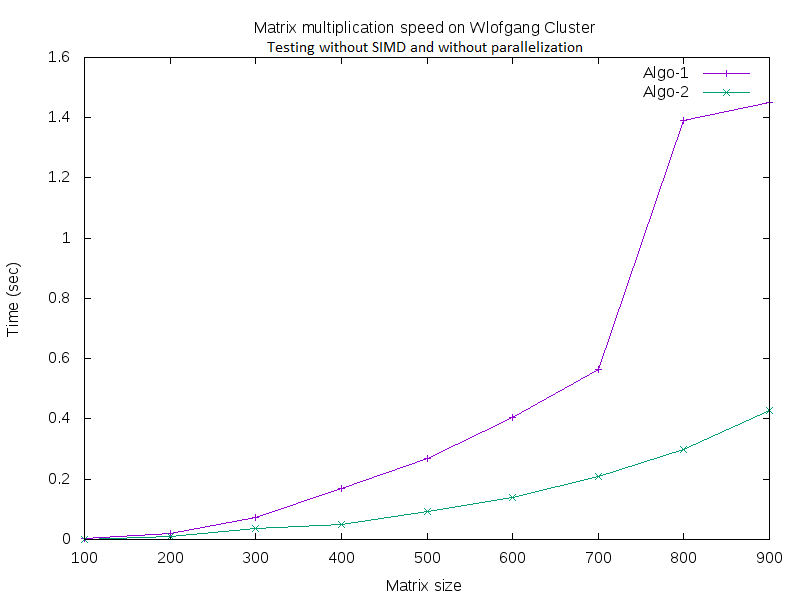
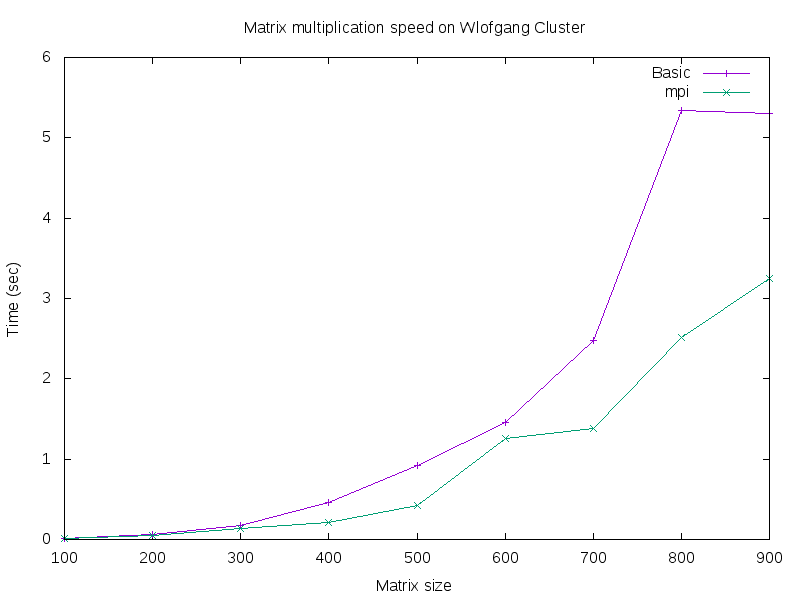
modified:   Automation.c 	modified:   data.txt 	modified:   graph.gnu 	modified:   mmult_mpi 	modified:   out.png

diff --git a/Automation.c b/Automation.c
@@ -12,7 +12,7 @@ int main(int argc, char const *argv[])
     clock_t begin, end;
     FILE *file;
     char instruction[100];
-    for (size_t i = 50; i < 1500; i += 50)
+    for (size_t i = 100; i < 1000; i += 100)
     {
         //nonoptimized
         begin = clock();
@@ -54,7 +54,7 @@ int main(int argc, char const *argv[])
         file = fopen("mpi_data.txt", "r");
         fscanf(file, "%lf", &time_spend);
         fclose(file);
-        printf("%10f\n",time_spend)
+        printf("%10f\n",time_spend);
 
     }
 }
